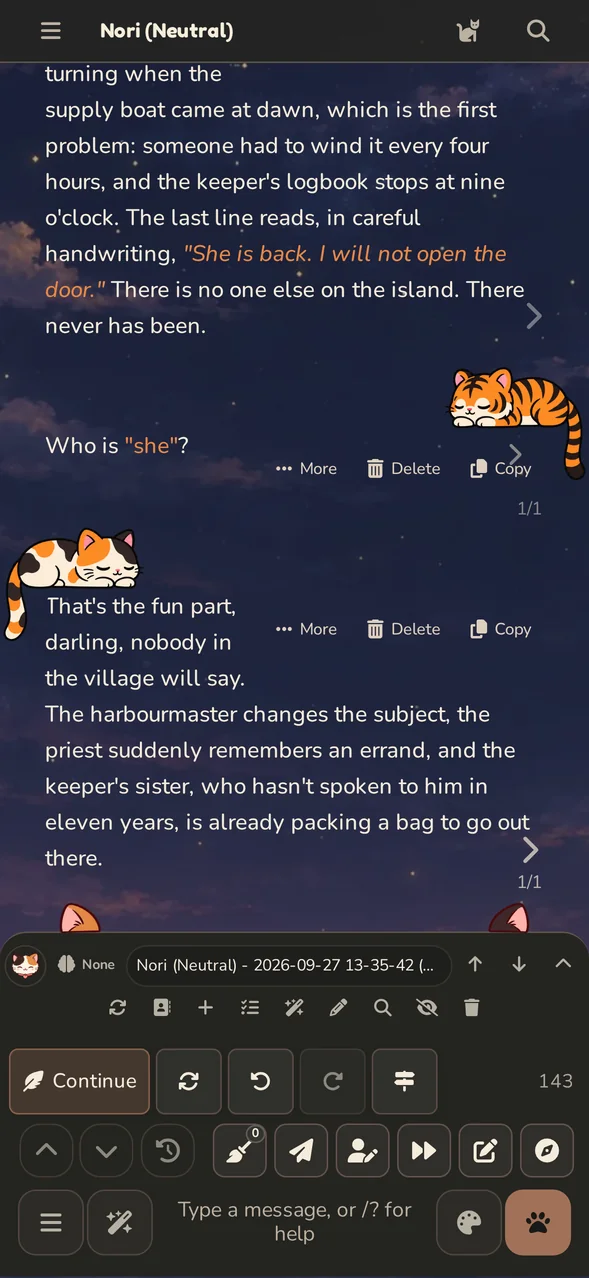
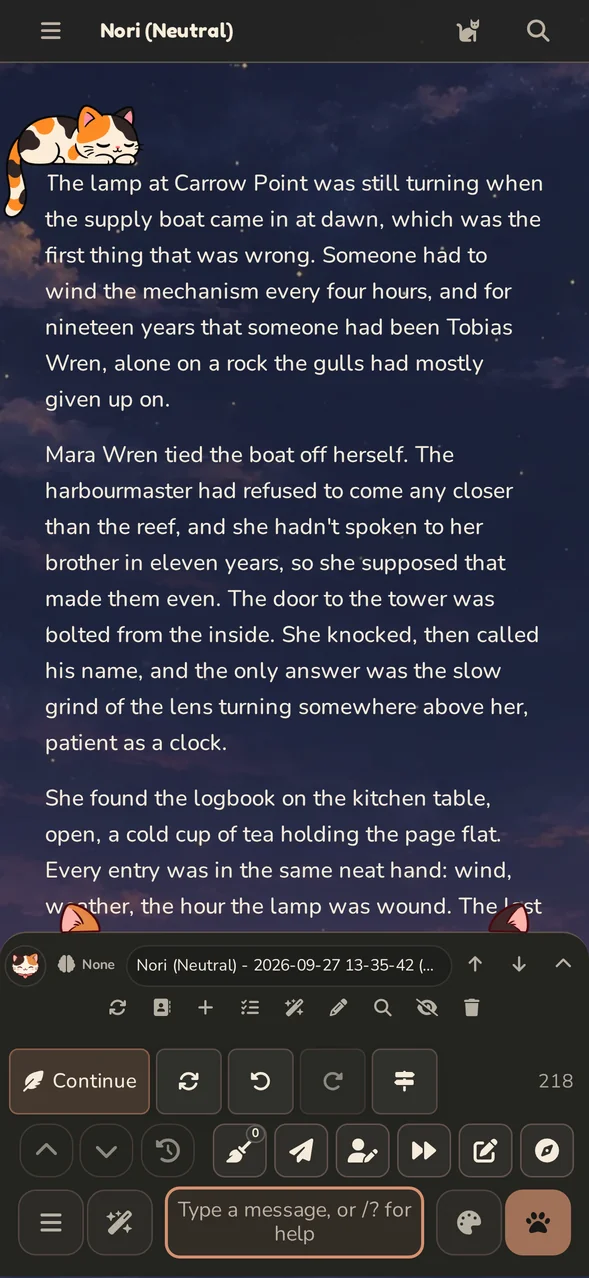
fix: polish README demos and continuous Story Mode layout

Changed region(s): [[0.0, 0.0305, 1.0, 0.7324], [0.275, 0.9155, 0.7334, 1.0], [0.9168, 0.8239, 0.9474, 0.8545]]

diff --git a/tests/story-mode-manuscript.e2e.js b/tests/story-mode-manuscript.e2e.js
@@ -1,0 +1,72 @@
+/* global document, window */
+import { expect, test } from '@playwright/test';
+import { openQuietChatForSmoke } from './chat-scroll-regression-helpers.js';
+
+test.use({ serviceWorkers: 'block' });
+test.setTimeout(120000);
+
+for (const width of [393, 1280]) {
+    test.describe(`Story manuscript at ${width}px`, () => {
+        test.use({ viewport: { width, height: width === 393 ? 852 : 900 }, hasTouch: width === 393, isMobile: width === 393 });
+
+        test('joins prose, keeps only end sleepers and still opens the editor', async ({ page }) => {
+            await page.route('**/api/settings/save', route => route.fulfill({ json: { version: Date.now() } }));
+            await openQuietChatForSmoke(page);
+            const skip = page.locator('[data-tour-coach-skip]');
+            if (await skip.isVisible()) await skip.click();
+            await page.evaluate(async () => {
+                // Exercise the real mode and editor without saving the synthetic transcript.
+                // Story Mode requires an acknowledged metadata save, unlike the smoke helper's
+                // empty chat-save response, so acknowledge only that presentation preference.
+                const getContext = window.SillyTavern.getContext;
+                window.SillyTavern.getContext = () => ({ ...getContext(), saveMetadata: async () => true });
+                await window.NeconyanShell.activateMode('roleplay');
+                const context = window.SillyTavern.getContext();
+                context.chat.splice(0);
+                document.querySelector('#chat').replaceChildren();
+                const paragraphs = [
+                    'The lamp was still turning when the boat came in.',
+                    'Mara climbed the steps. The door was',
+                    'bolted from the inside. She knocked, then listened.',
+                    'There was no answer.',
+                    'Above her, someone began to wind the lamp.',
+                ];
+                for (const [index, mes] of paragraphs.entries()) {
+                    context.chat.push({ name: index % 2 ? 'You' : 'Miso', is_user: index % 2 === 1,
+                        is_system: false, send_date: Date.now(), mes, extra: {} });
+                }
+                await context.printMessages();
+            });
+            await expect.poll(() => page.evaluate(() => window.NeconyanShell.activateMode('story')), { timeout: 30000 }).toBe(true);
+            await expect(page.locator('body')).toHaveClass(/sbstory/);
+            const rows = page.locator('#chat > .mes');
+            await expect(rows).toHaveCount(5);
+            await expect(rows.nth(2)).toHaveAttribute('data-sbstory-join', '');
+            for (let i = 0; i < 5; i++) {
+                const end = i === 0 || i === 4;
+                await expect(rows.nth(i)).toHaveCSS('margin-top', end ? '44px' : '0px');
+                await expect(rows.nth(i).locator(':scope > .neconyan-message-sleeper')).toHaveCSS('display', end ? 'block' : 'none');
+            }
+            const gap = await rows.evaluateAll(elements => elements[2].getBoundingClientRect().top - elements[1].getBoundingClientRect().bottom);
+            expect(Math.abs(gap)).toBeLessThan(1);
+            await expect(rows.nth(1)).toHaveCSS('padding-bottom', '0px');
+            if (width === 393) {
+                const actions = rows.first().locator('.mes_buttons');
+                await expect(actions).toHaveCSS('clip-path', 'inset(50%)');
+                await rows.first().locator('.mes_edit').focus();
+                await expect(actions).toHaveCSS('clip-path', 'none');
+                await page.locator('#send_textarea').focus();
+                await rows.first().locator('.mes_text').tap();
+            } else {
+                await rows.first().locator('.mes_text').click();
+            }
+            await expect(rows.first().locator('.edit_textarea')).toBeVisible();
+            await expect(rows.first().locator('.mes_edit_cancel')).toBeVisible();
+            await rows.first().locator('.mes_edit_cancel').click();
+            await expect(rows.first().locator('.edit_textarea')).toHaveCount(0);
+            await page.evaluate(() => window.NeconyanShell.activateMode('roleplay'));
+            await expect(rows.nth(2).locator(':scope > .neconyan-message-sleeper')).toHaveCSS('display', 'block');
+            await expect(rows.nth(2)).toHaveCSS('margin-top', '44px');
+        });
+    });
+}

diff --git a/public/index.html b/public/index.html
@@ -16,7 +16,7 @@
             background-color: #141514;
         }
     </style>
-    <link rel="preload" as="style" href="style.css?v=20260926s">
+    <link rel="preload" as="style" href="style.css?v=20260927f">
     <script type="importmap">
         { "imports": { "#macro-vendor": "./lib.js" } }
     </script>
@@ -41,18 +41,18 @@
     <link rel="icon" type="image/png" sizes="192x192" href="img/neconyan-icon-192.png">
     <link rel="icon" type="image/png" sizes="512x512" href="img/neconyan-icon-512.png">
     <link rel="apple-touch-icon" sizes="180x180" href="img/neconyan-icon-180.png" />
-    <link rel="stylesheet" type="text/css" href="style.css?v=20260926s">
+    <link rel="stylesheet" type="text/css" href="style.css?v=20260927f">
     <link rel="stylesheet" type="text/css" href="css/st-tailwind.css">
     <link rel="stylesheet" type="text/css" href="css/toggle-dependent.css">
     <link rel="stylesheet" type="text/css" href="css/select2-overrides.css?v=20260609a">
     <link rel="stylesheet" type="text/css" href="css/mobile-styles.css?v=20260916p" media="(max-width: 768px)">
     <link rel="stylesheet" type="text/css" href="css/neconyan-theme.css?v=20260924a">
     <link rel="stylesheet" type="text/css" href="css/neconyan-paper-theme.css?v=20260918b" media="(max-width: 768px)">
-    <link rel="stylesheet" type="text/css" href="css/neconyan-tabs.css?v=20260926s">
+    <link rel="stylesheet" type="text/css" href="css/neconyan-tabs.css?v=20260927f">
     <link rel="stylesheet" type="text/css" href="css/neconyan-mobile-shell.css?v=20260918c" media="(max-width: 768px)">
-    <link rel="stylesheet" type="text/css" href="css/neconyan.css?v=20260926s">
-    <link rel="stylesheet" type="text/css" href="css/neconyan-home.css?v=20260926s">
-    <link id="neconyan-calico-stylesheet" rel="stylesheet" type="text/css" href="css/neconyan-calico.css?v=20260926s">
+    <link rel="stylesheet" type="text/css" href="css/neconyan.css?v=20260927f">
+    <link rel="stylesheet" type="text/css" href="css/neconyan-home.css?v=20260927f">
+    <link id="neconyan-calico-stylesheet" rel="stylesheet" type="text/css" href="css/neconyan-calico.css?v=20260927f">
     <link href="css/neconyan-menus.css?v=20260926a" rel="preload" as="style" data-sb-deferred-style data-sb-media="all">
     <link rel="stylesheet" type="text/css" href="css/user.css">
     <!-- Scripts are loaded at the end of the body to improve page load speed -->

diff --git a/public/scripts/extensions/third-party/Neconyan-Story-Mode/style.css b/public/scripts/extensions/third-party/Neconyan-Story-Mode/style.css
@@ -381,12 +381,29 @@ body.sbstory #chat .mes[data-sbstory-join] .mes_text > p:first-child {
     margin-top: 0 !important;
 }
 
-body.sbstory #chat .mes:has(+ .mes[data-sbstory-join]) {
+/* Matches the manuscript rule's :not() chain, which would otherwise keep its bottom padding. */
+body.sbstory #chat .mes:not(.smallSysMes):not(.displayNone):not([hidden]):has(+ .mes[data-sbstory-join]) {
     padding-bottom: 0 !important;
 }
 
 body.sbstory #chat .mes:has(+ .mes[data-sbstory-join]) .mes_text > p:last-child {
     margin-bottom: 0 !important;
+}
+
+/* Sleepers perch on the first and newest blocks only, so the story in between runs without their 44px gaps. */
+body.sbstory #chat .mes:not(:nth-child(1 of .mes), .last_mes) > .neconyan-message-sleeper {
+    display: none;
+}
+
+body.sbstory #chat .mes.mes.mes[mesid]:not(:nth-child(1 of .mes), .last_mes) {
+    margin-top: 0 !important;
+}
+
+/* Deep Swipe re-shows its arrows and counters on every user block with inline !important display,
+   so clipping (which also drops their hit area) is what keeps them to the last block here. */
+body.sbstory #chat .mes.mes:not(.smallSysMes):not(.last_mes) :is(.swipe_left, .swipeRightBlock, .deep-swipe-left, .deep-swipe-right) {
+    display: none !important;
+    clip-path: inset(50%);
 }
 
 /* ---------------------------------------------------------------- editing inside the manuscript */

diff --git a/public/css/neconyan-mobile-shell.css b/public/css/neconyan-mobile-shell.css
@@ -1,6 +1,22 @@
 /* Neconyan mobile shell foundation: final sheet contract for modal drawers.
  * Keep this at the end of the shell sheet so it beats older mobile drawer rules. */
 @media screen and (max-width: 768px) {
+    /* Story paragraphs open their editor on tap. Keep the idle action row out of the
+       prose on touch screens, while revealing it when a keyboard user focuses it. */
+    body.neconyan.sbstory #chat .mes:not(.smallSysMes) .ch_name:not(:focus-within) .mes_buttons {
+        position: absolute;
+        inline-size: 1px;
+        block-size: 1px;
+        min-block-size: 0;
+        overflow: hidden;
+        clip-path: inset(50%);
+    }
+
+    body.neconyan.sbstory #chat .mes:not(.smallSysMes) .ch_name:focus-within {
+        float: none;
+        min-width: 100%;
+    }
+
     body.neconyan.sbterm {
         --sb-topbar-primary-height: max(44px, calc(var(--sb-topbar-primary-height-base) * var(--sb-topbar-scale-active)));
     }

diff --git a/public/sw.js b/public/sw.js
@@ -1,4 +1,4 @@
-const NN_SW_CACHE_VERSION = 'neconyan-cache-v20260927e';
+const NN_SW_CACHE_VERSION = 'neconyan-cache-v20260927f';
 const NN_CACHE_PREFIX = 'neconyan-cache-';
 const NN_STATIC_CACHE = `${NN_SW_CACHE_VERSION}-static`;
 const NN_SHELL_CACHE = `${NN_SW_CACHE_VERSION}-shell`;

diff --git a/.github/readme.md b/.github/readme.md
@@ -5,9 +5,9 @@
 </p>
 
 > [!NOTE]
-> All of the code here is LLM-generated or LLM-assisted, but every prompt and agent that ships with Neconyan is human-made.
+> All the code here is LLM-generated or LLM-assisted, but every prompt and agent that ships with Neconyan is human-made.
 
-Neconyan is my cat-themed fork of [SillyTavern](https://github.com/SillyTavern/SillyTavern) and [SillyBunny](https://github.com/SillyBunnyTeam/SillyBunny) for chatting and roleplaying with AI characters, on desktop or on your phone. You bring the model, either a local backend or an API key, since no model access or credits come with it.
+Neconyan is my cat-themed fork of [SillyTavern](https://github.com/SillyTavern/SillyTavern) and [SillyBunny](https://github.com/SillyBunnyTeam/SillyBunny) for chatting and roleplaying with AI characters, on desktop or your phone. You bring the model, either a local backend or an API key, since no model access or credits come with it.
 
 If you want SillyTavern with everything working exactly like upstream, use [SillyBunny](https://github.com/SillyBunnyTeam/SillyBunny) instead. I only pull in the upstream bits I want, so some things look and behave differently here, and some extensions might not work.
 
@@ -18,9 +18,9 @@ If you want SillyTavern with everything working exactly like upstream, use [Sill
 - **It keeps going when you leave.** Almost everything runs on the server now, so you can send a message on your phone, switch apps or lock the screen, and the reply will be sitting there when you come back. A few things still need the page open, like in-browser WebLLM models and Kokoro voices.
 - **It's actually made for phones.** Proper labelled tabs, a bottom chat bar and a sliding menu, not the desktop layout squished down.
 - **Four ways to chat.** Classic Roleplay, messenger-style Conversation, a social timeline called Meower, and Story Mode for long-form writing.
-- **Memory that remembers.** [Mewmory](../docs/mewmory.md) keeps track of your story, the NPCs you've met and what they said, so you're not re-explaining everything 200 messages later.
+- **Story memory.** [Mewmory](../docs/mewmory.md) keeps track of your story, the NPCs you've met and what they said, so you're not re-explaining everything 200 messages later.
 - **The good stuff comes built in.** Agents, Chat Archive, Quick Image Gen, Guided Generations, BotSearcher and a few more, each with their own settings. [Here's the full list and who made them.](../docs/neconyan-native-tools.md)
-- **Little helpers.** Miso, Taro and Nori are assistants that can help you set things up, and the short First paws tour walks you through the basics.
+- **Little helpers.** Miso, Taro and Nori can use tool calls to create characters with portraits, edit lorebooks and adjust presets or agents. The short First paws tour walks you through the basics.
 - **It's cute.** Calico themes, cats napping on your messages and a pixel cat on Home. That was the whole point, really.
 - **Your files are still your files.** It reads the same character cards, chats, lorebooks and presets as SillyTavern, and there's no telemetry.
 
@@ -107,7 +107,7 @@ The launcher checks what you've got installed and sets everything up for you.
 <details>
 <summary><b>Picking Node.js or Bun yourself</b></summary>
 
-Every system also has a Node.js launcher and a Bun launcher, if you'd rather choose:
+Every system also has separate Node.js and Bun launchers, if you'd rather choose:
 
 | System | Node.js | Bun |
 | --- | --- | --- |
@@ -150,7 +150,7 @@ Bun 1.3.14 or newer works too: install the dependencies, then run `bun run start
 
 ### Coming from SillyTavern or SillyBunny?
 
-Most of your characters, chats, lorebooks, personas and presets should come across fine, but I can't promise everything will, and extensions that rely on SillyTavern's page layout might need fixing. So:
+Most of your characters, chats, lorebooks, personas and presets should come across fine, but I can't promise everything will, and extensions that rely on SillyTavern's page layout might need fixing.
 
 - **Back up your old install first**, and keep that backup until you've checked everything works.
 - **Give Neconyan its own data folder.** Never point two apps at the same one.
@@ -160,7 +160,7 @@ Neconyan makes its own `config.yaml` and `data/` folder the first time it runs. 
 <details>
 <summary><b>For developers</b></summary>
 
-`main` is the release snapshot and `staging` is where work happens. I keep them as two separate checkouts, `Neconyan` on `main` and `Neconyan-draft` on `staging`, and test in the draft before anything gets promoted.
+`main` holds release snapshots and `staging` is where work happens. Use a separate checkout and data folder for testing, so your everyday chats stay out of it.
 
 ```sh
 npm run lint
@@ -170,7 +170,7 @@ npm --prefix tests install
 npm --prefix tests run test:unit
 ```
 
-Browser tests live in `tests/` and run against a throwaway server: set `NECONYAN_TEST_BASE_URL` to its address (the default is `http://127.0.0.1:4433`). Build the frontend before testing, and restart the server after rebuilding. Screenshots, test reports, build output and local runtime folders stay out of commits.
+Browser tests live in `tests/` and run against a throwaway server: set `NECONYAN_TEST_BASE_URL` to its address (the default is `http://127.0.0.1:4433`). Build the frontend before testing, and restart the server after rebuilding. Temporary screenshots, test reports, build output and local runtime folders stay out of commits.
 
 </details>
 

diff --git a/README.md b/README.md
@@ -3,9 +3,9 @@
 </p>
 
 > [!NOTE]
-> All of the code here is LLM-generated or LLM-assisted, but every prompt and agent that ships with Neconyan is human-made.
+> All the code here is LLM-generated or LLM-assisted, but every prompt and agent that ships with Neconyan is human-made.
 
-Neconyan is my cat-themed fork of [SillyTavern](https://github.com/SillyTavern/SillyTavern) and [SillyBunny](https://github.com/SillyBunnyTeam/SillyBunny) for chatting and roleplaying with AI characters, on desktop or on your phone. You bring the model, either a local backend or an API key, since no model access or credits come with it.
+Neconyan is my cat-themed fork of [SillyTavern](https://github.com/SillyTavern/SillyTavern) and [SillyBunny](https://github.com/SillyBunnyTeam/SillyBunny) for chatting and roleplaying with AI characters, on desktop or your phone. You bring the model, either a local backend or an API key, since no model access or credits come with it.
 
 If you want SillyTavern with everything working exactly like upstream, use [SillyBunny](https://github.com/SillyBunnyTeam/SillyBunny) instead. I only pull in the upstream bits I want, so some things look and behave differently here, and some extensions might not work.
 
@@ -16,9 +16,9 @@ If you want SillyTavern with everything working exactly like upstream, use [Sill
 - **It keeps going when you leave.** Almost everything runs on the server now, so you can send a message on your phone, switch apps or lock the screen, and the reply will be sitting there when you come back. A few things still need the page open, like in-browser WebLLM models and Kokoro voices.
 - **It's actually made for phones.** Proper labelled tabs, a bottom chat bar and a sliding menu, not the desktop layout squished down.
 - **Four ways to chat.** Classic Roleplay, messenger-style Conversation, a social timeline called Meower, and Story Mode for long-form writing.
-- **Memory that remembers.** [Mewmory](docs/mewmory.md) keeps track of your story, the NPCs you've met and what they said, so you're not re-explaining everything 200 messages later.
+- **Story memory.** [Mewmory](docs/mewmory.md) keeps track of your story, the NPCs you've met and what they said, so you're not re-explaining everything 200 messages later.
 - **The good stuff comes built in.** Agents, Chat Archive, Quick Image Gen, Guided Generations, BotSearcher and a few more, each with their own settings. [Here's the full list and who made them.](docs/neconyan-native-tools.md)
-- **Little helpers.** Miso, Taro and Nori are assistants that can help you set things up, and the short First paws tour walks you through the basics.
+- **Little helpers.** Miso, Taro and Nori can use tool calls to create characters with portraits, edit lorebooks and adjust presets or agents. The short First paws tour walks you through the basics.
 - **It's cute.** Calico themes, cats napping on your messages and a pixel cat on Home. That was the whole point, really.
 - **Your files are still your files.** It reads the same character cards, chats, lorebooks and presets as SillyTavern, and there's no telemetry.
 
@@ -105,7 +105,7 @@ The launcher checks what you've got installed and sets everything up for you.
 <details>
 <summary><b>Picking Node.js or Bun yourself</b></summary>
 
-Every system also has a Node.js launcher and a Bun launcher, if you'd rather choose:
+Every system also has separate Node.js and Bun launchers, if you'd rather choose:
 
 | System | Node.js | Bun |
 | --- | --- | --- |
@@ -148,7 +148,7 @@ Bun 1.3.14 or newer works too: install the dependencies, then run `bun run start
 
 ### Coming from SillyTavern or SillyBunny?
 
-Most of your characters, chats, lorebooks, personas and presets should come across fine, but I can't promise everything will, and extensions that rely on SillyTavern's page layout might need fixing. So:
+Most of your characters, chats, lorebooks, personas and presets should come across fine, but I can't promise everything will, and extensions that rely on SillyTavern's page layout might need fixing.
 
 - **Back up your old install first**, and keep that backup until you've checked everything works.
 - **Give Neconyan its own data folder.** Never point two apps at the same one.
@@ -158,7 +158,7 @@ Neconyan makes its own `config.yaml` and `data/` folder the first time it runs. 
 <details>
 <summary><b>For developers</b></summary>
 
-`main` is the release snapshot and `staging` is where work happens. I keep them as two separate checkouts, `Neconyan` on `main` and `Neconyan-draft` on `staging`, and test in the draft before anything gets promoted.
+`main` holds release snapshots and `staging` is where work happens. Use a separate checkout and data folder for testing, so your everyday chats stay out of it.
 
 ```sh
 npm run lint
@@ -168,7 +168,7 @@ npm --prefix tests install
 npm --prefix tests run test:unit
 ```
 
-Browser tests live in `tests/` and run against a throwaway server: set `NECONYAN_TEST_BASE_URL` to its address (the default is `http://127.0.0.1:4433`). Build the frontend before testing, and restart the server after rebuilding. Screenshots, test reports, build output and local runtime folders stay out of commits.
+Browser tests live in `tests/` and run against a throwaway server: set `NECONYAN_TEST_BASE_URL` to its address (the default is `http://127.0.0.1:4433`). Build the frontend before testing, and restart the server after rebuilding. Temporary screenshots, test reports, build output and local runtime folders stay out of commits.
 
 </details>
 
